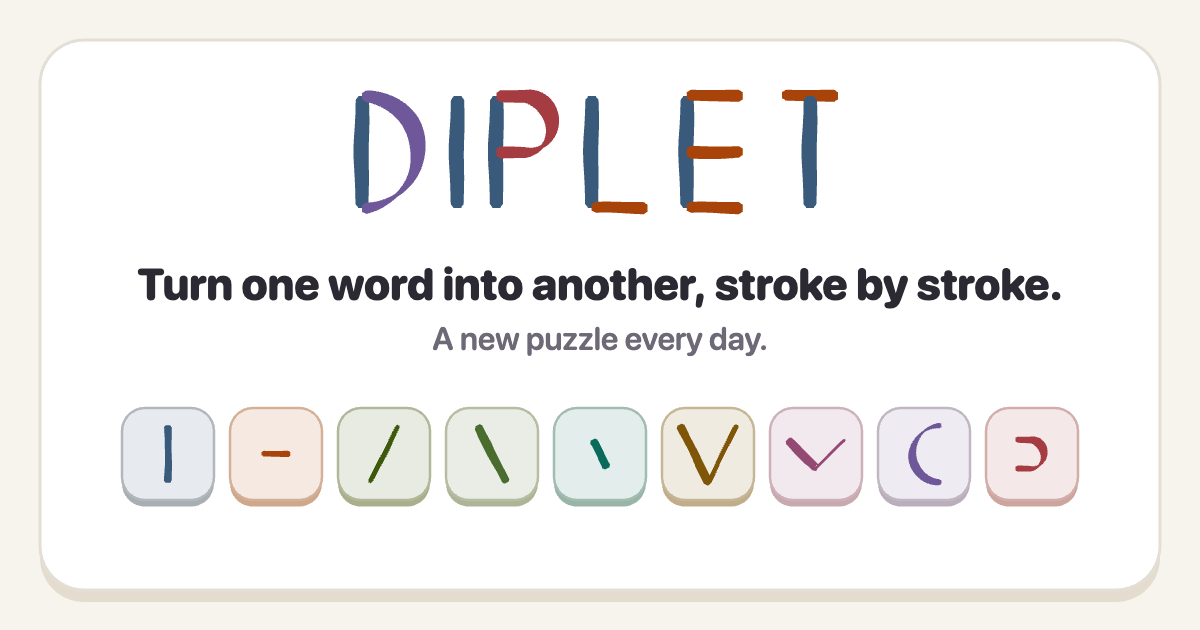
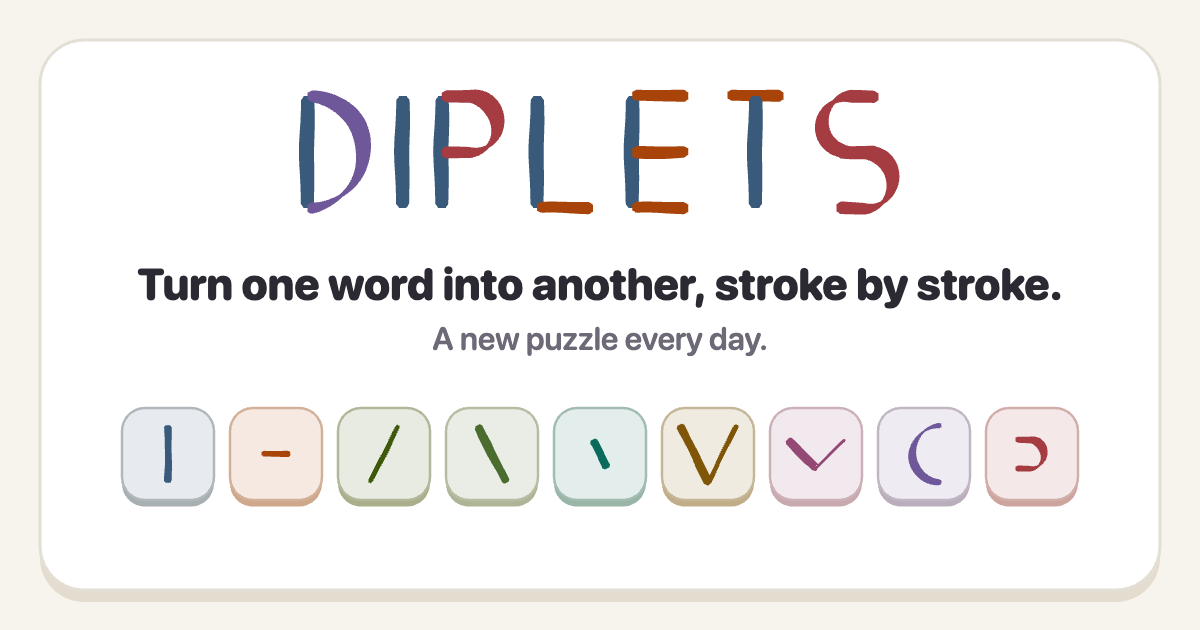
Rename the game Diplets, and give the nib green ink
The S is two bowls, so the name gets curves at both ends. The nib is now
dipped in the rising slash's green, with a bead of it swelling at the
point. The wordmark, page title, link preview, share card, README, daily
runbook and deploy text all say Diplets; the address and saved-data keys
stay.

Changed region(s): [[0.2467, 0.1206, 0.7708, 0.3619]]

diff --git a/src/components/maze/Masthead.tsx b/src/components/maze/Masthead.tsx
@@ -4,7 +4,7 @@ import { LETTERS, TILES, TILE_IDS, drawnScale, drawnWidth, type TileId } from '.
 import { inkOutline, inkSeed } from '../../ink';
 import { TileStroke } from '../Glyph';
 
-const WORDMARK = 'DIPLET';
+const WORDMARK = 'DIPLETS';
 const GAP = 0.7;
 const SPACE = 1.6;
 /** The wordmark's pen: a fifth broader than the game's, so the name stands out but still matches the tray. */
@@ -12,9 +12,10 @@ const BOLD = 1.2;
 /**
  * A gold pen nib before the D, a cap height tall with its tip on the baseline: an arched top,
  * rounded shoulders and sides sweeping in to a fine point, with a breather hole and a slit cut
- * through it. It's `width` wide, `gap` before the D.
+ * through it. It's `width` wide, `gap` before the D, dipped in `ink` (the rising slash's green),
+ * with a bead of it of radius `bead` at its point.
  */
-const NIB = { width: 1.06, gap: 0.8 };
+const NIB = { width: 1.06, gap: 0.8, ink: 'var(--t-LD)', bead: 0.09 };
 const NIB_PATH =
   'M0 0 Q0.22 -0.01 0.42 0.06 C0.5 0.2 0.54 0.38 0.53 0.55 C0.51 0.95 0.15 1.55 0 2 C-0.15 1.55 -0.51 0.95 -0.53 0.55 C-0.54 0.38 -0.5 0.2 -0.42 0.06 Q-0.22 -0.01 0 0 Z' +
   ' M0.085 0.82 A0.085 0.085 0 1 0 -0.085 0.82 A0.085 0.085 0 1 0 0.085 0.82 Z M-0.02 0.905 L0.02 0.905 L0.01 1.97 L-0.01 1.97 Z';
@@ -108,14 +109,16 @@ function neck(slope: number) {
 }
 const NECK = neck(drip.slope);
 /**
- * The drop, centred on the origin: a circle drawn up into a point 3 radii above its centre, so the
- * neck swells into it (the sides run on tangent to the circle from a third of a radius above it).
+ * A drop of radius `r`, centred on the origin: a circle drawn up into a point 3 radii above its
+ * centre, so whatever it hangs from swells into it (the sides run on tangent to the circle from a
+ * third of a radius above it).
  */
-const DROP = (() => {
-  const r = DRIP.drop;
+function teardrop(r: number) {
   const ys = [...steps(-3 * r, -r / 3, 8), ...steps(-r / 3, r, 16).slice(1)];
   return symmetric(ys, (y) => (y <= -r / 3 ? (y + 3 * r) / Math.sqrt(8) : Math.sqrt(Math.max(0, r * r - y * y))));
-})();
+}
+const DROP = teardrop(DRIP.drop);
+const BEAD = teardrop(NIB.bead);
 /** Once the D has landed (`LANDED` after its bowl sets off), a bead of ink swells under it, then creeps down and stops. */
 const DRIP_RUN = { duration: 1.8, times: [0, 0.2, 1], ease: 'easeOut' as const };
 const LANDED = 0.8;
@@ -151,7 +154,7 @@ function Drip({ x, y, tile, order }: { x: number; y: number; tile: TileId; order
 
 /**
  * The nib (see NIB), centred on `x`. It drops in first, then ink climbs its tip as if it had just
- * been dipped.
+ * been dipped, and a bead of it swells at the point.
  */
 function Nib({ x }: { x: number }) {
   const clip = useId();
@@ -171,11 +174,22 @@ function Nib({ x }: { x: number }) {
         <g clipPath={`url(#${clip})`}>
           <motion.path
             d={NIB_INK}
-            fill="var(--t-C)"
+            fill={NIB.ink}
             style={{ originY: 1 }}
             initial={{ scaleY: 0 }}
             animate={{ scaleY: 1 }}
             transition={{ duration: 0.5, delay: 0.6, ease: 'easeOut' }}
+          />
+        </g>
+        <g transform={`translate(0 ${2 + 1.2 * NIB.bead})`}>
+          <motion.path
+            d={BEAD}
+            fill={NIB.ink}
+            // Swell about the bead's centre, three quarters of the way down its outline.
+            style={{ originY: 0.75 }}
+            initial={{ scale: 0 }}
+            animate={{ scale: 1 }}
+            transition={{ duration: 0.4, delay: 1.05, ease: 'easeOut' }}
           />
         </g>
       </motion.g>
@@ -194,7 +208,7 @@ export function Masthead({ compact = false, dateline, actions }: { compact?: boo
   const top = compact ? -PAD : PART_Y - PART / 2 - PAD;
   return (
     <header className="masthead">
-      <svg className="masthead-art" viewBox={`${-PAD} ${top} ${width + 2 * PAD} ${2.4 + PAD - top}`} role="img" aria-label="Diplet">
+      <svg className="masthead-art" viewBox={`${-PAD} ${top} ${width + 2 * PAD} ${2.4 + PAD - top}`} role="img" aria-label="Diplets">
         {!compact && parts.map((p) => (
           <g key={p.tile} transform={`translate(${p.x} ${p.y})`}>
             <rect

diff --git a/index.html b/index.html
@@ -4,18 +4,18 @@
     <meta charset="UTF-8" />
     <meta name="viewport" content="width=device-width, initial-scale=1.0" />
     <link rel="icon" type="image/svg+xml" href="./favicon.svg" />
-    <title>Diplet</title>
+    <title>Diplets</title>
     <meta name="description" content="Turn one word into another, stroke by stroke. A new word puzzle every day." />
     <!-- The link preview when a result is shared (public/og.png, drawn by drawPreviewCard in src/share.ts). -->
     <meta property="og:type" content="website" />
-    <meta property="og:site_name" content="Diplet" />
-    <meta property="og:title" content="Diplet: a daily word puzzle" />
+    <meta property="og:site_name" content="Diplets" />
+    <meta property="og:title" content="Diplets: a daily word puzzle" />
     <meta property="og:description" content="Turn one word into another, stroke by stroke. A new puzzle every day." />
     <meta property="og:url" content="https://funklunsford.github.io/strokes/" />
-    <meta property="og:image" content="https://funklunsford.github.io/strokes/og.png?v=diplet" />
+    <meta property="og:image" content="https://funklunsford.github.io/strokes/og.png?v=diplets" />
     <meta property="og:image:width" content="1200" />
     <meta property="og:image:height" content="630" />
-    <meta property="og:image:alt" content="Diplet, written in coloured strokes, over the tray of strokes the game is played with" />
+    <meta property="og:image:alt" content="Diplets, written in coloured strokes, over the tray of strokes the game is played with" />
     <meta name="twitter:card" content="summary_large_image" />
     <!-- The theme (light or dark) and motion before anything is drawn: the player's choice, else the device's (see src/theme.ts, src/prefs.ts). -->
     <script>

diff --git a/src/components/maze/ShareSheet.tsx b/src/components/maze/ShareSheet.tsx
@@ -16,8 +16,8 @@ export function ShareSheet({ result, onClose }: { result: ShareResult; onClose: 
   const file = useRef<File | null>(null);
   const [copied, setCopied] = useState(false);
   const [note, setNote] = useState<string | null>(null);
-  const name = `diplet-${result.number ?? 'result'}.png`;
-  const title = `Diplet${result.number ? ` No. ${result.number}` : ''}${result.start.length === 5 ? ' · 5 letters' : ''}`;
+  const name = `diplets-${result.number ?? 'result'}.png`;
+  const title = `Diplets${result.number ? ` No. ${result.number}` : ''}${result.start.length === 5 ? ' · 5 letters' : ''}`;
   const canCopy = typeof ClipboardItem !== 'undefined' && !!navigator.clipboard?.write;
 
   useEffect(() => {
@@ -86,7 +86,7 @@ export function ShareSheet({ result, onClose }: { result: ShareResult; onClose: 
           </button>
         </div>
         <div className="share-preview">
-          {image ? <img src={image} alt={`Diplet result card: ${result.start} to ${result.goal} in ${result.strokes} strokes`} /> : <div className="share-loading" />}
+          {image ? <img src={image} alt={`Diplets result card: ${result.start} to ${result.goal} in ${result.strokes} strokes`} /> : <div className="share-loading" />}
         </div>
         {note && <p className="setting-note share-note">{note}</p>}
         <div className="pill-row">

diff --git a/src/share.ts b/src/share.ts
@@ -146,7 +146,7 @@ export async function drawResultCard(r: ShareResult, colorBlind = false, canvas 
   cardBase(ctx, W, H, 48);
   const cx = W / 2;
 
-  drawWord(ctx, 'DIPLET', cx, 104, 26);
+  drawWord(ctx, 'DIPLETS', cx, 104, 26);
   ctx.textAlign = 'center';
   ctx.textBaseline = 'alphabetic';
   ctx.fillStyle = PAPER.muted;
@@ -277,7 +277,7 @@ export async function drawPreviewCard(canvas = document.createElement('canvas'))
   canvas.height = H;
   const ctx = canvas.getContext('2d')!;
   cardBase(ctx, W, H, 40);
-  drawWord(ctx, 'DIPLET', W / 2, 96, 56);
+  drawWord(ctx, 'DIPLETS', W / 2, 96, 56);
   ctx.textAlign = 'center';
   ctx.fillStyle = PAPER.ink;
   ctx.font = `800 44px ${FONT}`;

diff --git a/scripts/favicon.ts b/scripts/favicon.ts
@@ -1,4 +1,4 @@
-// The browser-tab icon: the wordmark's D (Diplet's first letter), in the game's own ink, on the dark
+// The browser-tab icon: the wordmark's D (Diplets' first letter), in the game's own ink, on the dark
 // board colour.
 //
 //   npx vite-node scripts/favicon.ts   # → public/favicon.svg

diff --git a/DESIGN.md b/DESIGN.md
@@ -774,3 +774,9 @@ No horizontal scroll at 360–430 px. Not yet tried on a real phone.
 - **On load** the nib drops in first, then ink climbs its tip as if it had just been dipped; the letters follow and the D drips once it lands. With less motion it all fades in in place.
 - **Also tried:** an ink drop and a tilted nib made of strokes (clumsy), all nine strokes in a 3 × 3 grid (busy), each stroke set a little apart from its stem (shows how letters are built, but adds no new strokes), and a steel nib (dull grey at header size).
 - **Not changed yet:** the share card, link preview and tab icon still show the name alone.
+
+## Renamed Diplets, with green ink on the nib (2026-10-10, branch `rename-diplet`)
+- **The owner's call:** rename the game Diplets, to give the word more to show. The S is two bowls, so the name now has curves at both ends (the D's arc, the S's two bowls) instead of ending on straight bars. It's still built from the same 4 kinds of stroke (six long bars, five bars, one arc, three bowls): the S adds two bowls, not new kinds.
+- **The nib's ink is green** (the rising slash's green, `--t-LD`), on its dipped tip and in a bead that swells at its point once the ink has climbed it. That brings a colour the name doesn't use; a purple dip with a green bead was tried and read as two inks.
+- **Changed with the name:** the wordmark, the page title and link-preview tags, the link preview itself (`public/og.png`, redrawn; its tag now asks for `og.png?v=diplets`), the share card, its title, alt text and saved file (`diplets-4.png`), the README, the daily runbook and `/daily`, and what `scripts/deploy.sh` writes to the site's repo.
+- **Unchanged:** the address (/strokes/), the `strokes:` saved-data keys, names in the code, and the tab icon (still the D).

diff --git a/README.md b/README.md
@@ -1,6 +1,6 @@
-# Diplet
+# Diplets
 
-A word maze where every letter is built from pen strokes. The name is a doublet (Lewis Carroll's word for turning one word into another, step by step) dipped in ink. Each word is a room: drag strokes in from the tray, tap a stroke to remove it, drag it somewhere else, or, where a chevron, arc or bowl could start a letter either way round, twist it by circling the cursor around its spot (up to 3 strokes per step) to turn the current word into another everyday word, and find the cheapest route from the day's start word to its goal. See [DESIGN.md](DESIGN.md) for the rules and design notes.
+A word maze where every letter is built from pen strokes. The name is doublets (Lewis Carroll's word ladders, turning one word into another step by step) dipped in ink. Each word is a room: drag strokes in from the tray, tap a stroke to remove it, drag it somewhere else, or, where a chevron, arc or bowl could start a letter either way round, twist it by circling the cursor around its spot (up to 3 strokes per step) to turn the current word into another everyday word, and find the cheapest route from the day's start word to its goal. See [DESIGN.md](DESIGN.md) for the rules and design notes.
 
 ```bash
 npm install

diff --git a/.claude/commands/daily.md b/.claude/commands/daily.md
@@ -3,7 +3,7 @@ description: Add the next daily puzzle (5 letters) — choose it, check it, and 
 argument-hint: "[YYYY-MM-DD]"
 ---
 
-Add a daily puzzle to Diplet by following the runbook in `docs/daily-prompt.md` exactly, step by
+Add a daily puzzle to Diplets by following the runbook in `docs/daily-prompt.md` exactly, step by
 step: get ready, choose the puzzle, check it and hand it in.
 
 The date: $ARGUMENTS. If no date was given, use the day after the latest file in

diff --git a/docs/daily-prompt.md b/docs/daily-prompt.md
@@ -9,7 +9,7 @@ request.
 
 ---
 
-You're adding a day's puzzle to **Diplet**, a word puzzle. Players turn a start word into a goal
+You're adding a day's puzzle to **Diplets**, a word puzzle. Players turn a start word into a goal
 word one real 5-letter word at a time, redrawing letters stroke by stroke, in as few strokes as they
 can. Every device plays 5-letter words. (The 4-letter game is kept behind `?letters=4`, and gets no
 new days.)
